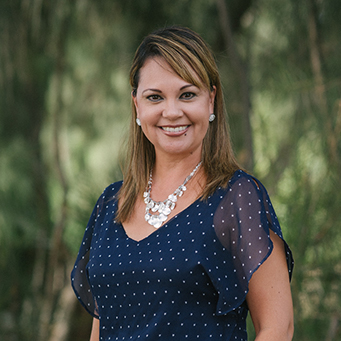
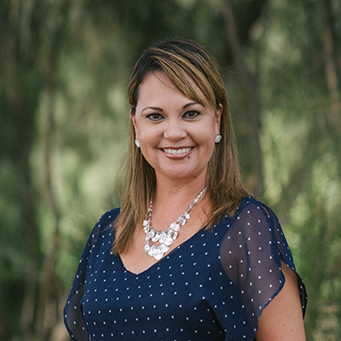
Vesta
Images updated

diff --git a/Vesta/index.html b/Vesta/index.html
@@ -205,7 +205,7 @@
       <div class="meet_the_team" onmouseover="showdetails(0)" onmouseout="hidedetails(0)" style="">
         <div class="t_box">
         <div class="profile_box" id="box_0">
-      		<img class="profile_img" src="resources/Profile/Ted.png" />
+      		<img class="profile_img" src="resources/headshots/Ted_headshot.jpg" />
       		<h2>Theodore Takai III<span>President</span></h2>
           <div id="email_0" style="display:none;">ted@radtravel.com <br> RS-68183</div>
       	</div>
@@ -214,7 +214,7 @@
       <div class="meet_the_team" onmouseover="showdetails(1)" onmouseout="hidedetails(1)" style="margin-left:50px;">
         <div class="t_box">
       		<div class="profile_box">
-      		<img class="profile_img" src="resources/Profile/Courtney.png" />
+      		<img class="profile_img" src="resources/headshots/Courtney_headshot.jpg" />
       		<h2>Courtney Takai (R)<span>Vice President & Principal Broker</span></h2>
           <div id="email_1" style="display:none;">courtney@vestahawaii.com <br> RB-20731</div>
         </div>
@@ -232,7 +232,7 @@
 
           <div class="profile_box">
             <div class="image_box">
-              <img class="profile_img" src="resources/Profile/Tori.png" />
+              <img class="profile_img" src="resources/headshots/Tori_headshot.jpg" />
               <div class="text_image" >
                 <h3><span>toric@vestahawaii.com<br>RS-77451</span></h3>
               </div>
@@ -246,7 +246,7 @@
 
           <div class="profile_box">
             <div class="image_box">
-            <img class="profile_img"  src="resources/Profile/Mel.png" />
+            <img class="profile_img"  src="resources/headshots/Mel_headshot.jpg" />
             <div class="text_image" >
               <h3><span>melkamasugi@vestahawaii.com</span></h3>
             </div>

diff --git a/Vesta/stylesheet.css b/Vesta/stylesheet.css
@@ -598,7 +598,7 @@ box-shadow: -11px 7px 45px -9px rgba(0,0,0,0.75);
   z-index: 2;
   /*max-width: 220px;*/
   /*width:220px;*/
-  width:80%;
+  width:90%;
   /*width:185px;*/
 
   /*width:200%;*/
@@ -606,7 +606,7 @@ box-shadow: -11px 7px 45px -9px rgba(0,0,0,0.75);
   display: block;
   margin: 0 auto;
   /*height:185px;*/
-  height:80%;
+  height:90%;
   /*height: 90%;*/
 
   /*margin: auto 0;*/
